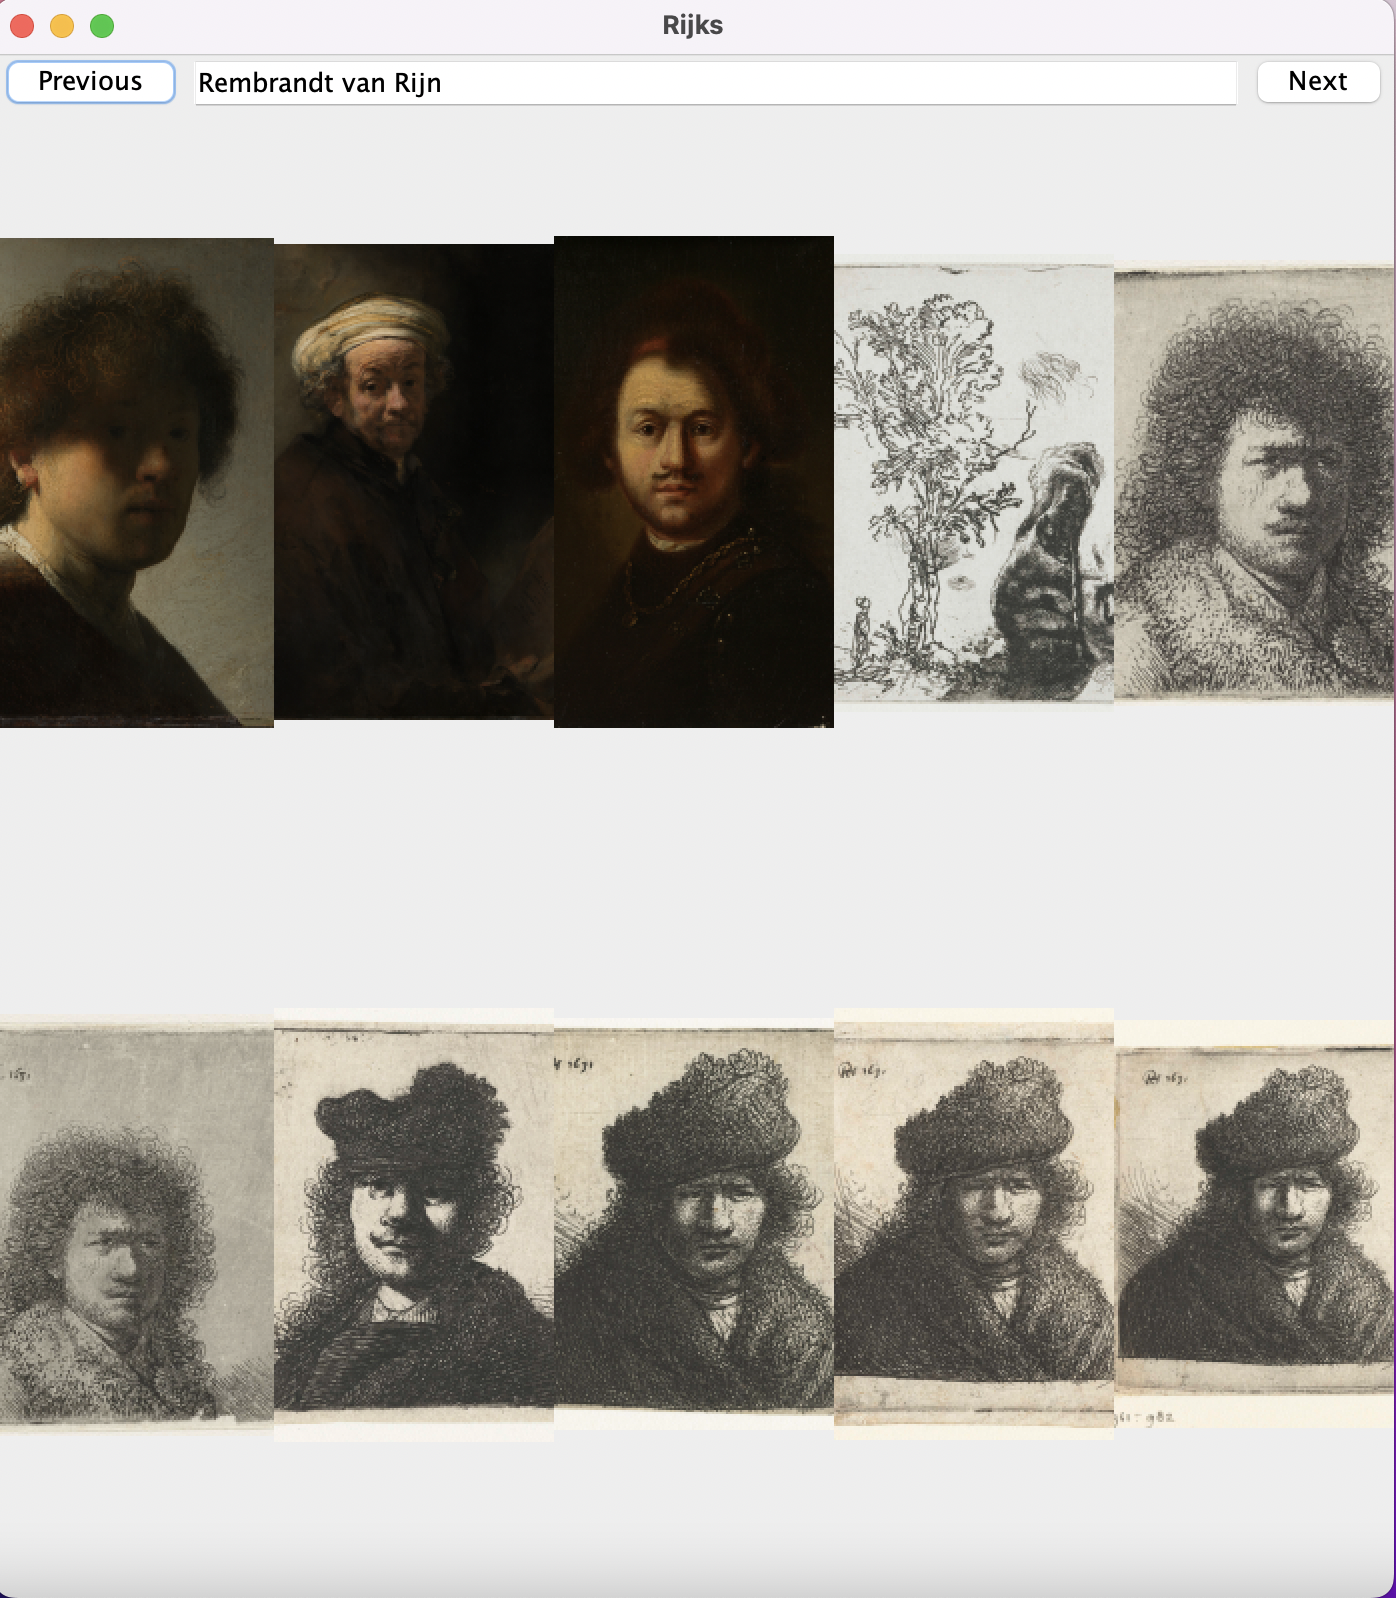
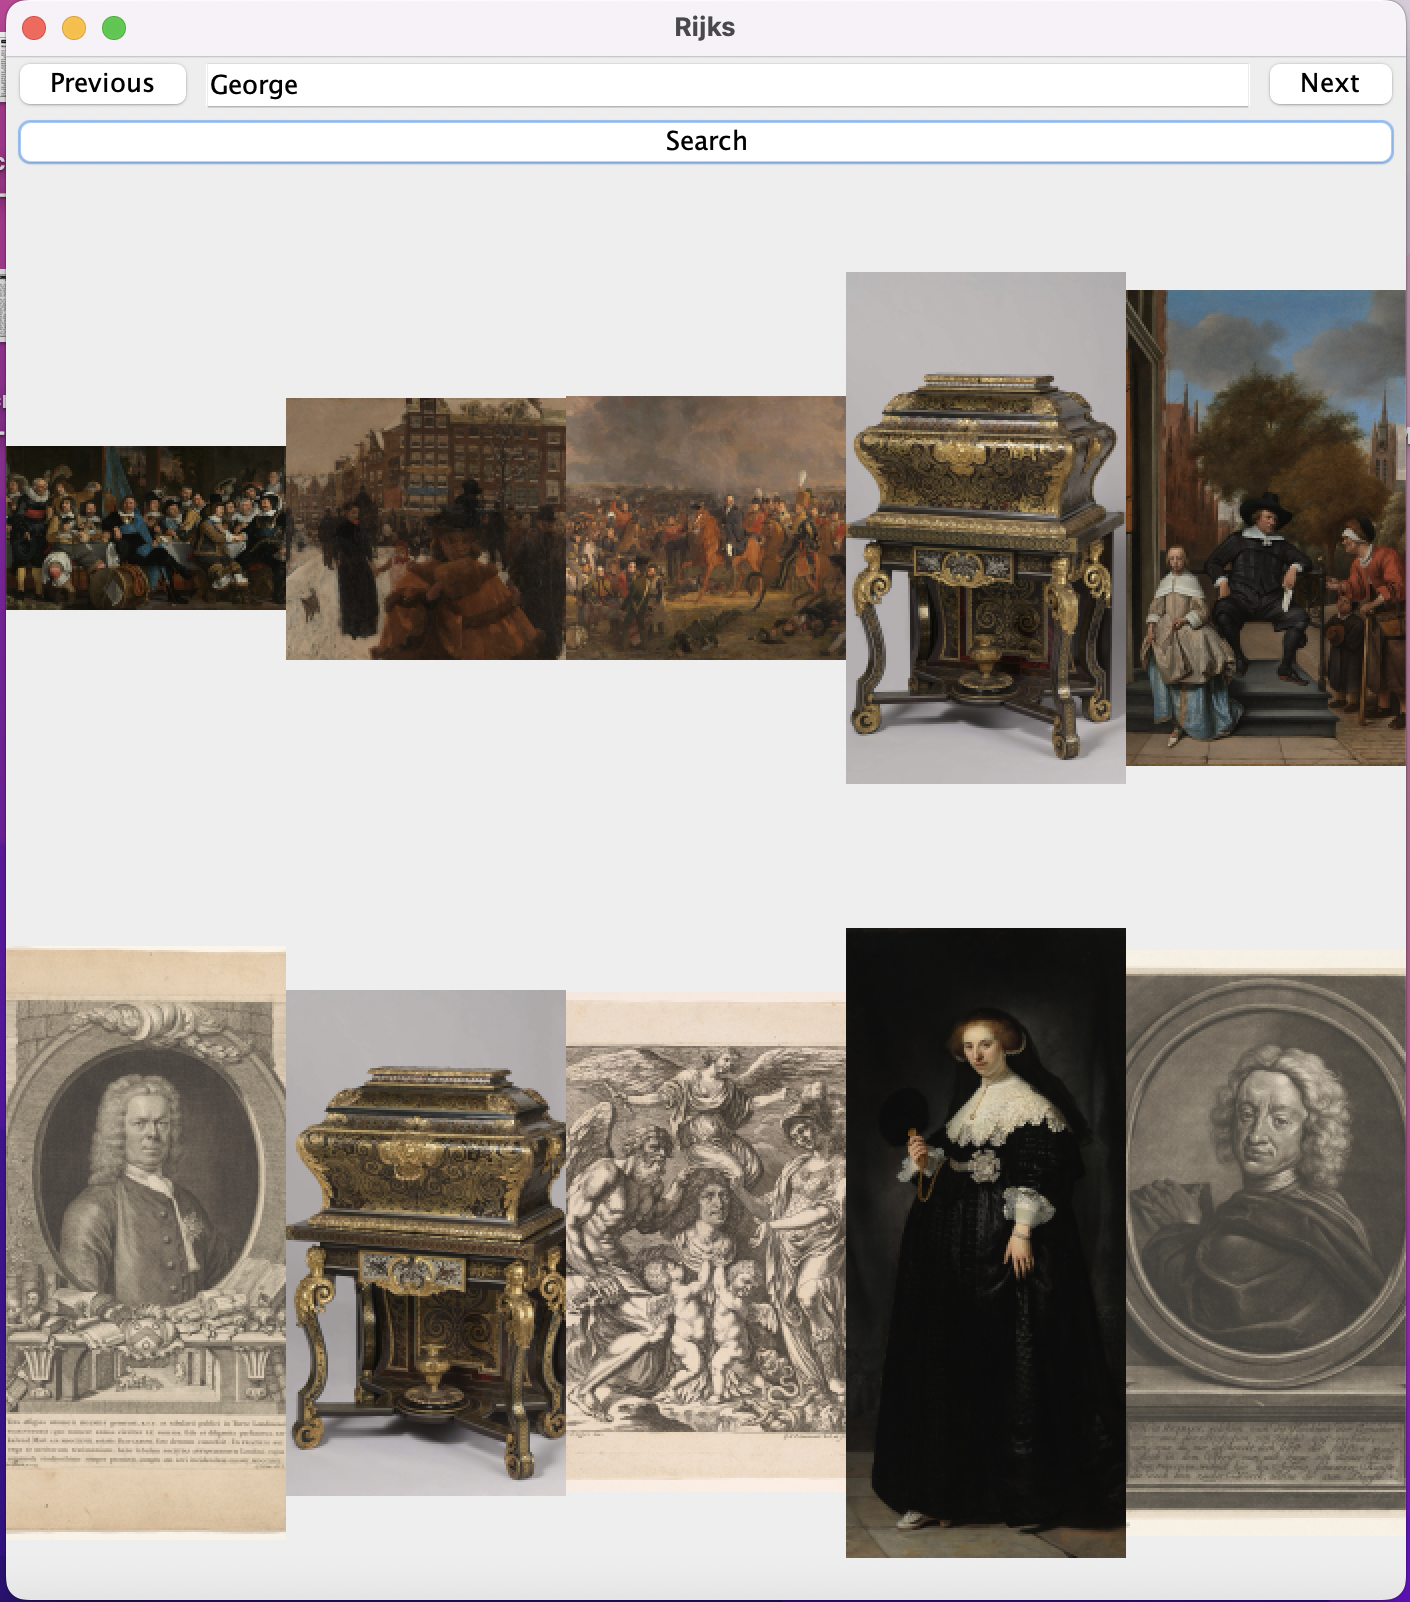
fixed API call

diff --git a/src/main/java/buchen/rijks/RijksSearchFrame.java b/src/main/java/buchen/rijks/RijksSearchFrame.java
@@ -1,6 +1,8 @@
 package buchen.rijks;
 
 import com.andrewoid.ApiKey;
+import hu.akarnokd.rxjava3.swing.SwingSchedulers;
+import io.reactivex.rxjava3.schedulers.Schedulers;
 
 import javax.imageio.ImageIO;
 import javax.swing.*;
@@ -27,6 +29,7 @@ public class RijksSearchFrame extends JFrame {
 
         JButton prevButton = new JButton("Previous");
         JButton nextButton = new JButton("Next");
+        JButton searchButton = new JButton ("Search");
 
         nextButton.addActionListener(e -> {
             page++;
@@ -38,16 +41,15 @@ public class RijksSearchFrame extends JFrame {
                 update();
             }
         });
-        searchField.getDocument().addDocumentListener(
-                (SimpleDocumentListener) e -> {
-                    page = 0;
-                    update();
-                });
+        searchButton.addActionListener(e -> {
+            update();
+        });
 
         JPanel searchPanel = new JPanel(new BorderLayout());
         searchPanel.add(searchField, BorderLayout.CENTER);
         searchPanel.add(prevButton, BorderLayout.WEST);
         searchPanel.add(nextButton, BorderLayout.EAST);
+        searchPanel.add(searchButton, BorderLayout.AFTER_LAST_LINE);
 
         imagePanel = new JPanel(new GridLayout(0, 5));
         add(searchPanel, BorderLayout.NORTH);
@@ -60,43 +62,51 @@ public class RijksSearchFrame extends JFrame {
         SwingUtilities.invokeLater(() -> {
             ApiKey apiKey = new ApiKey();
 
-            ArtObjects collection;
             if (!searchField.getText().isEmpty()) {
-                collection = service.query(apiKey.get(), page, searchField.getText()).blockingGet();
-            } else {
-                collection = service.page(apiKey.get(), page).blockingGet();
-            }
-
-            imagePanel.removeAll();
-
-            ArtObject[] artObjects = collection.artObjects;
-            imagePanel.setLayout(new GridLayout(2, 5));
-
-            for (ArtObject artObject : artObjects) {
-                String imageUrl = artObject.webImage.url;
-                String title = artObject.title;
-                String artist = artObject.principalOrFirstMaker;
-                    try {
-                        BufferedImage originalImage = ImageIO.read(new URL(imageUrl));
-                        Image scaledImage = originalImage.getScaledInstance(200, -1, Image.SCALE_SMOOTH);
-                        ImageIcon icon = new ImageIcon(scaledImage);
-                        JLabel label = new JLabel(icon);
-                        label.setToolTipText("<html><b>Title:</b> " + title + "<br><b>Artist:</b> "
-                                + artist + "</html>");
-                        label.addMouseListener(new MouseAdapter() {
-                            @Override
-                            public void mouseClicked(MouseEvent e) {
-                                super.mouseClicked(e);
-                                new ImageFrame(icon, title, artist);
-                            }
-                        });
-                        imagePanel.add(label);
-                    } catch (Exception e) {
-                        e.printStackTrace();
-                    }
-                }
-            imagePanel.revalidate();
+                service.query(apiKey.get(), page, searchField.getText())
+                        .subscribeOn(Schedulers.io())
+                        .observeOn(SwingSchedulers.edt())
+                        .subscribe(this::handleResponse,
+                                Throwable::printStackTrace);
+           }
+            else {
+                service.page(apiKey.get(), page)
+                        .subscribeOn(Schedulers.io())
+                        .observeOn(SwingSchedulers.edt())
+                        .subscribe(this::handleResponse,
+                                Throwable::printStackTrace);}
         });
+    }
+    private void handleResponse(ArtObjects collection) {
+        imagePanel.removeAll();
+
+        ArtObject[] artObjects = collection.artObjects;
+        imagePanel.setLayout(new GridLayout(2, 5));
+
+        for (ArtObject artObject : artObjects) {
+            String imageUrl = artObject.webImage.url;
+            String title = artObject.title;
+            String artist = artObject.principalOrFirstMaker;
+            try {
+                BufferedImage originalImage = ImageIO.read(new URL(imageUrl));
+                Image scaledImage = originalImage.getScaledInstance(200, -1, Image.SCALE_SMOOTH);
+                ImageIcon icon = new ImageIcon(scaledImage);
+                JLabel label = new JLabel(icon);
+                label.setToolTipText("<html><b>Title:</b> " + title + "<br><b>Artist:</b> "
+                        + artist + "</html>");
+                label.addMouseListener(new MouseAdapter() {
+                    @Override
+                    public void mouseClicked(MouseEvent e) {
+                        super.mouseClicked(e);
+                        new ImageFrame(icon, title, artist);
+                    }
+                });
+                imagePanel.add(label);
+            } catch (Exception e) {
+                e.printStackTrace();
+            }
+        }
+        imagePanel.revalidate();
     }
 
 }

diff --git a/README.md b/README.md
@@ -1,7 +1,7 @@
 # Rijks Museum API
 
 This project searches the Rijks Museum API and display the results
-ten results are displayed per page. The previous and next buttons control 
+10 results are displayed per page. The previous and next buttons control 
 what page number is being sent to the API. The search box is to enter a query to
 send to the API. Clicking on an image will open a new frame with that image. 
 There is also a tooltip to give you more information on the image by hovering 
